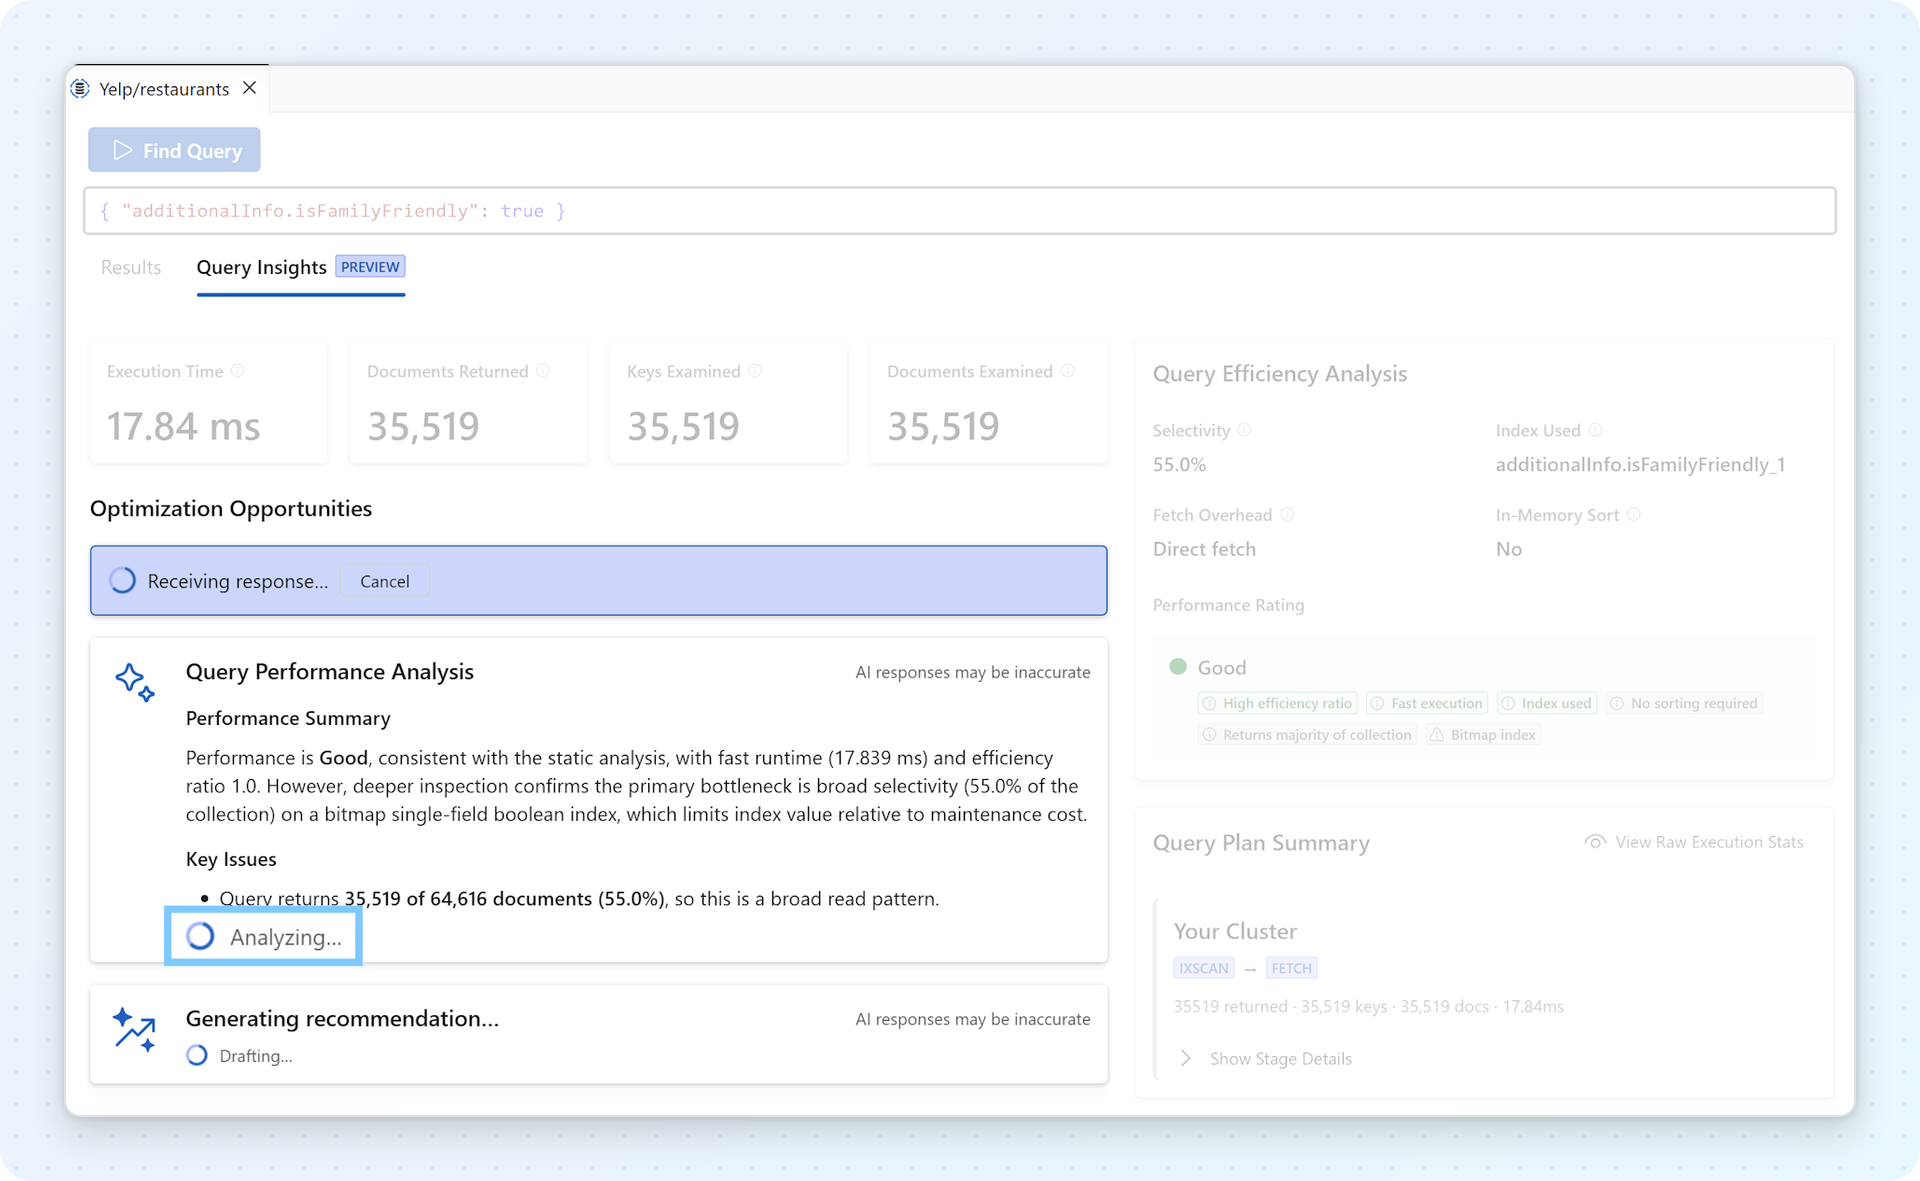
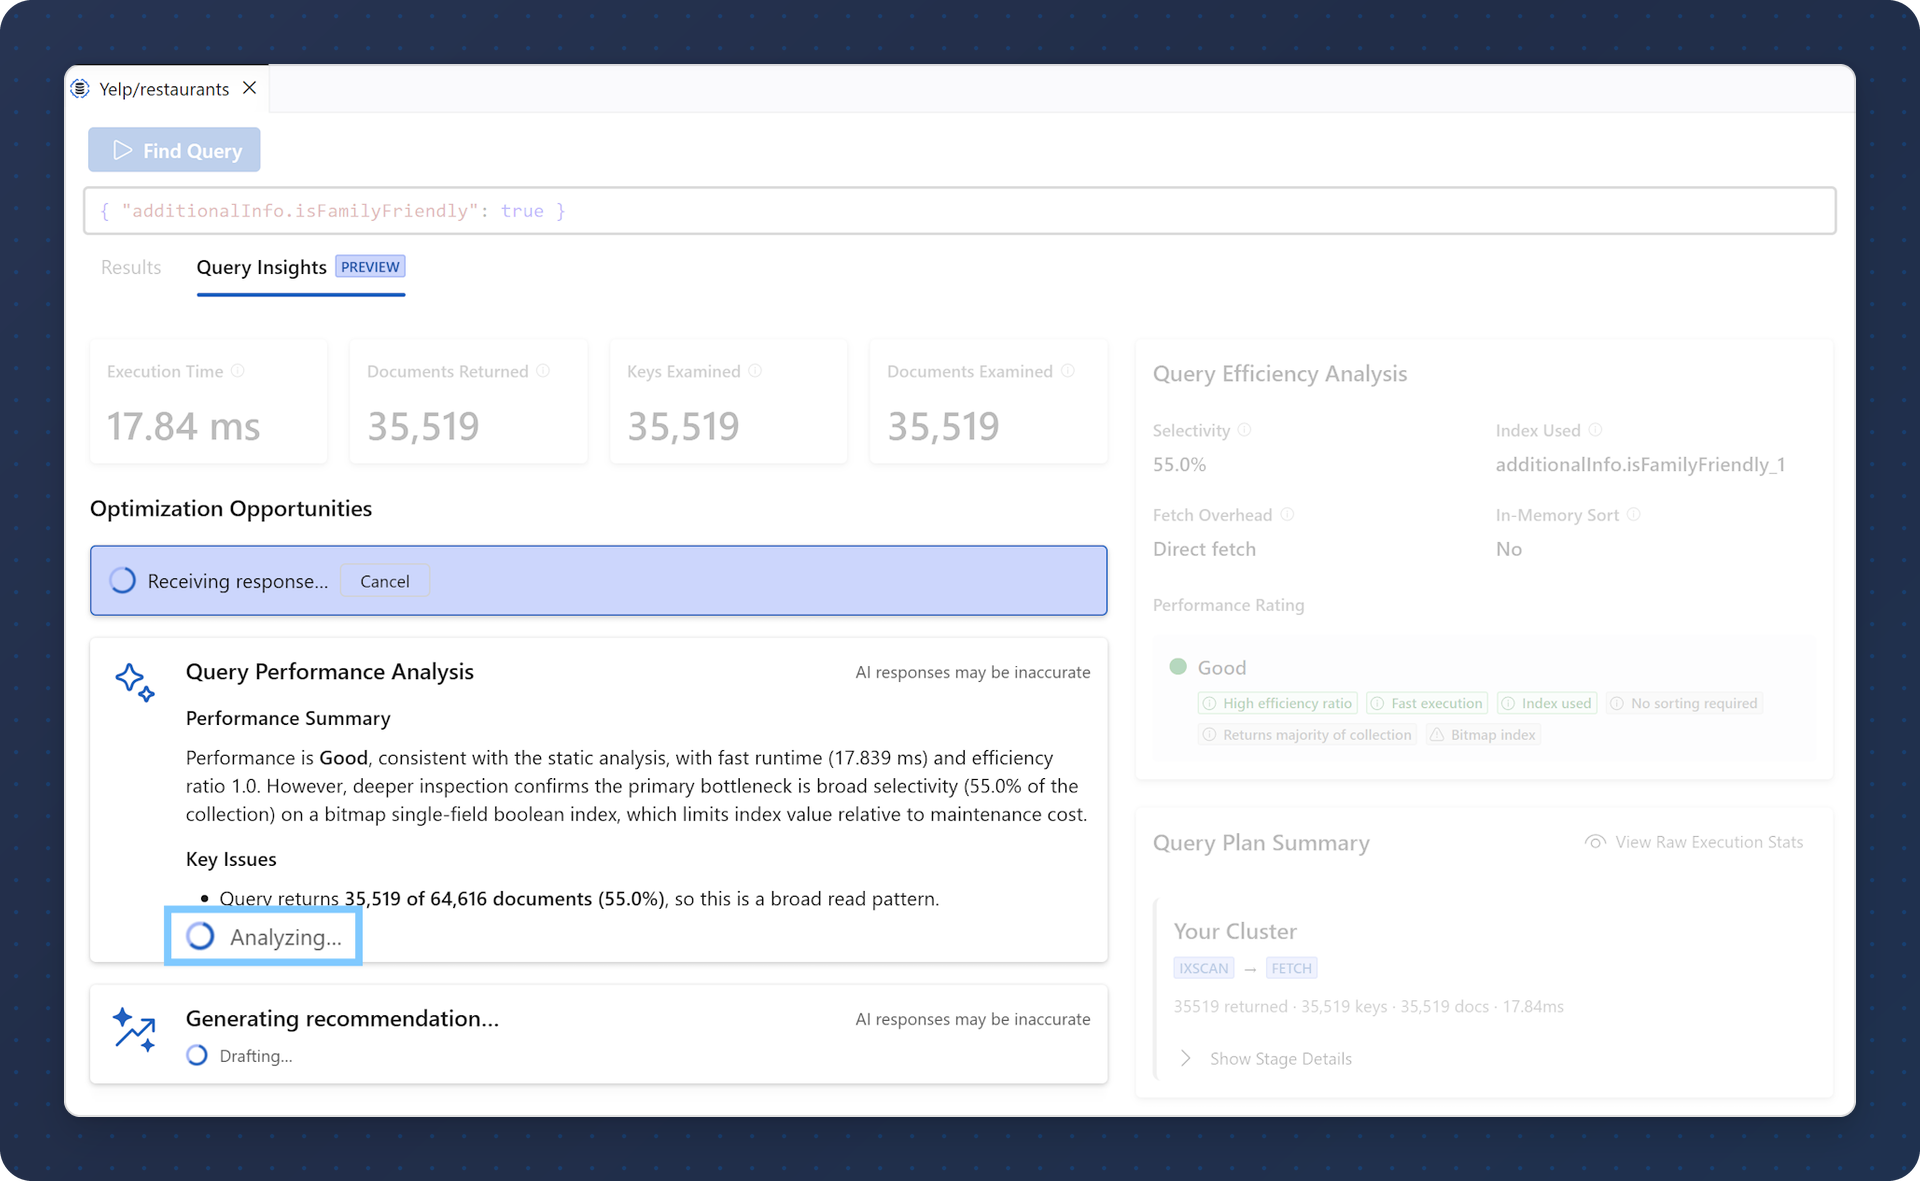
Use dark-framed images and update tags for the VS Code 1.0 post

Changed region(s): [[0.0, 0.0, 1.0, 1.0]]

diff --git a/blogs/_posts/2026-10-10-documentdb-for-vs-code-1-0.md b/blogs/_posts/2026-10-10-documentdb-for-vs-code-1-0.md
@@ -9,7 +9,7 @@ tags:
   - DocumentDB
   - VS Code
   - "1.0"
-  - Release
+  - GUI
   - Tools
 ---
 ![DocumentDB for VS Code 1.0]({{ '/assets/images/posts/documentdb-for-vs-code-1-0/hero.png' | relative_url }})
